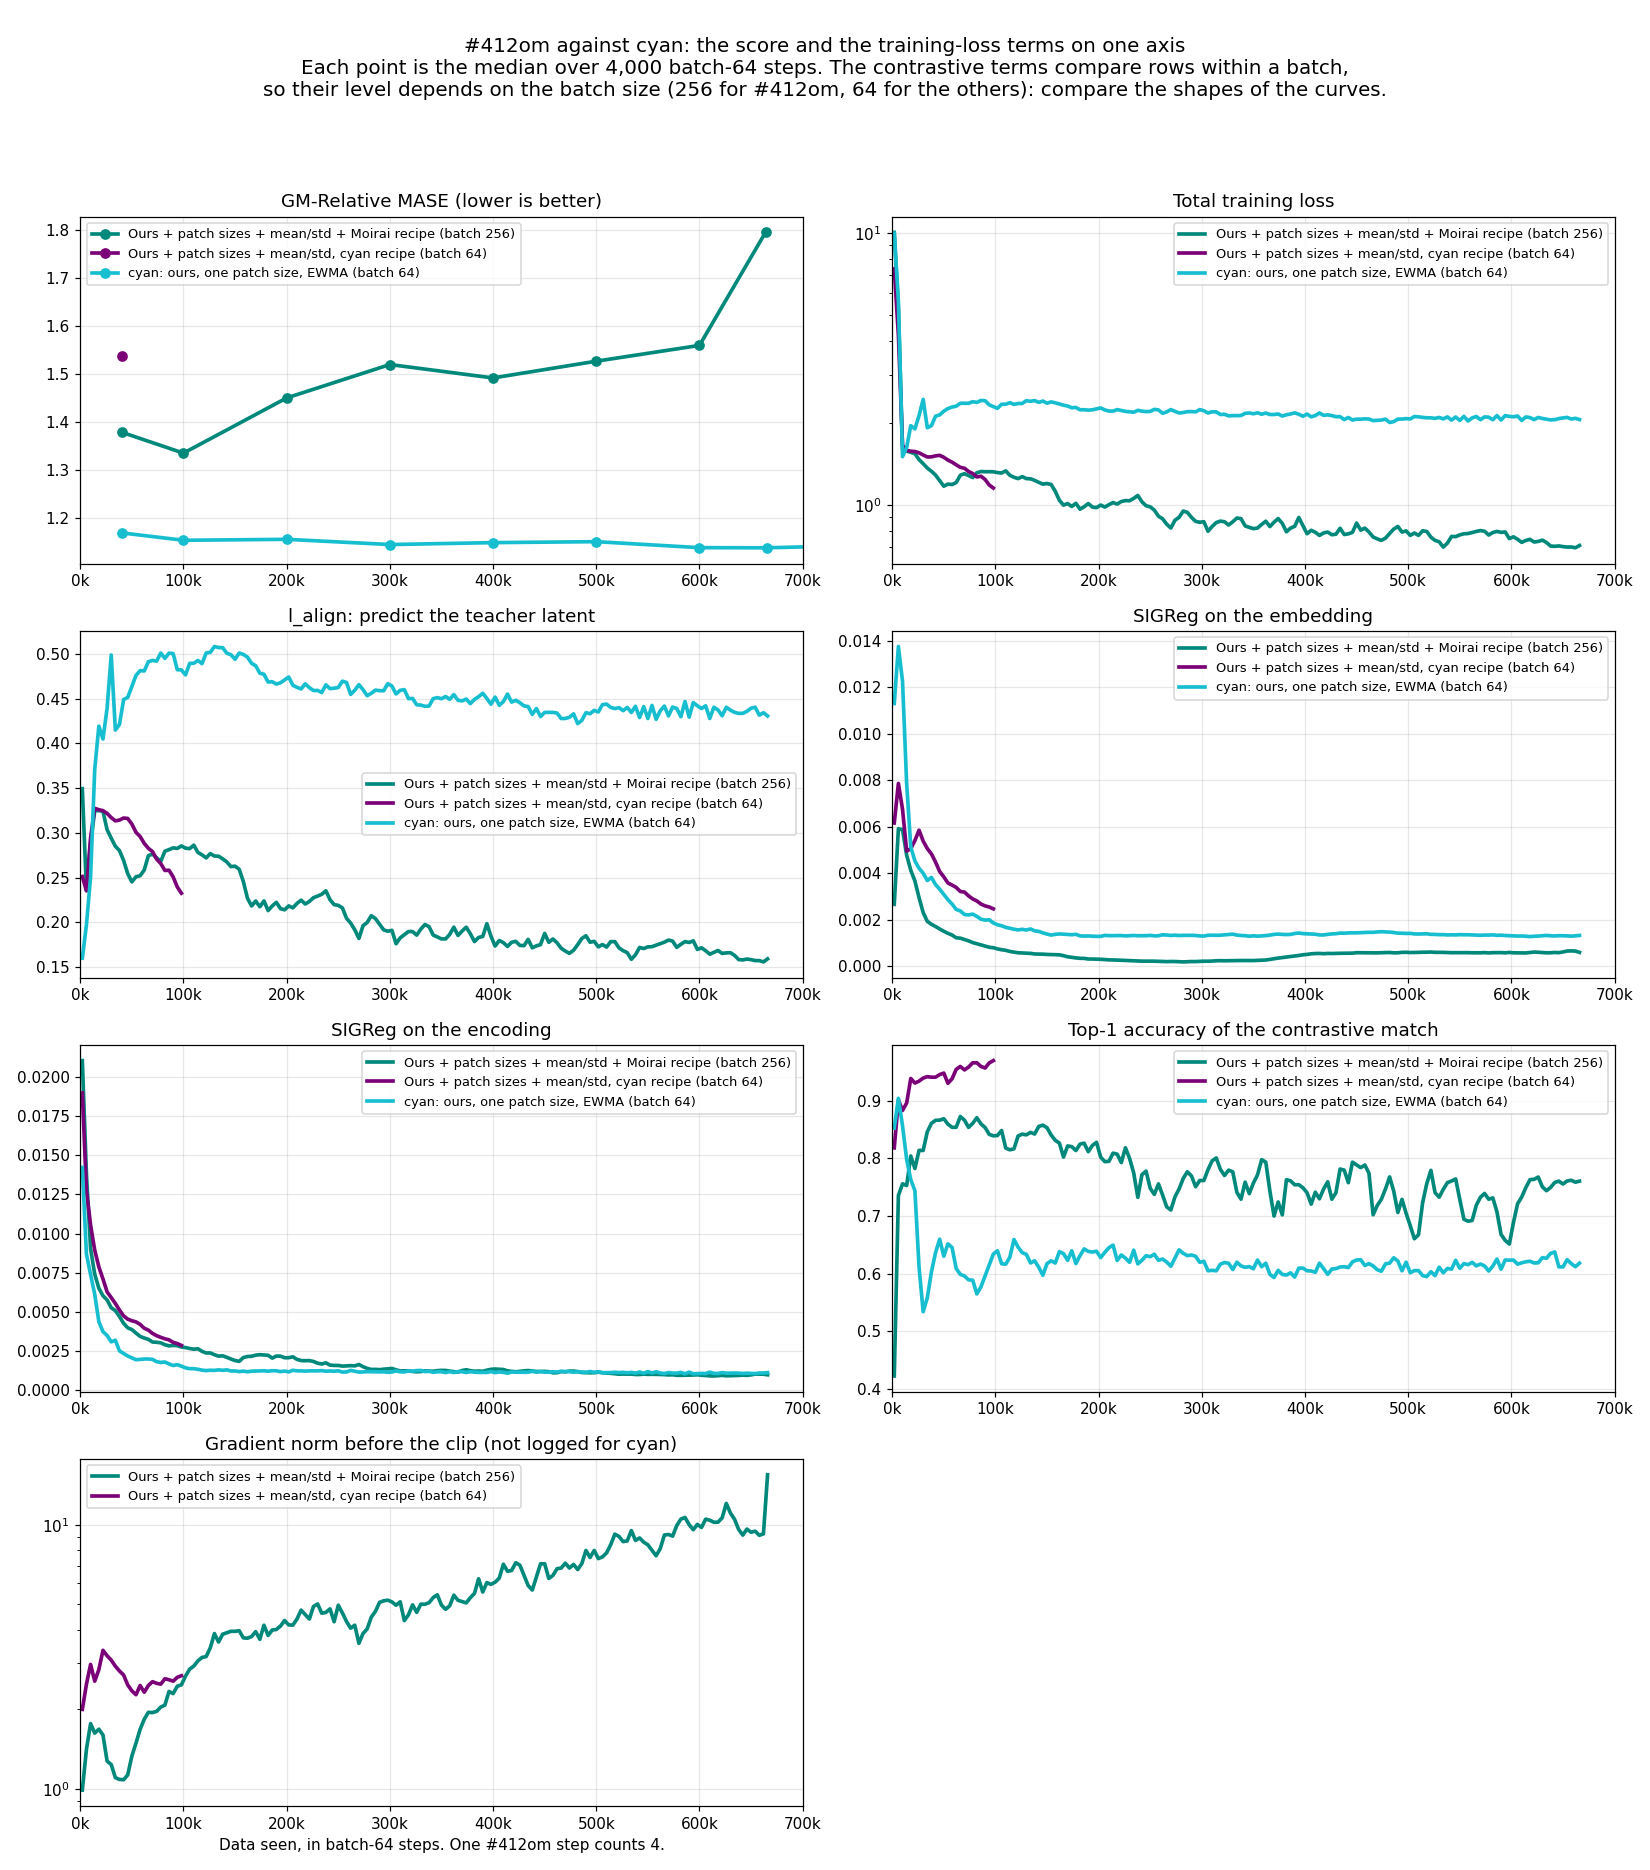
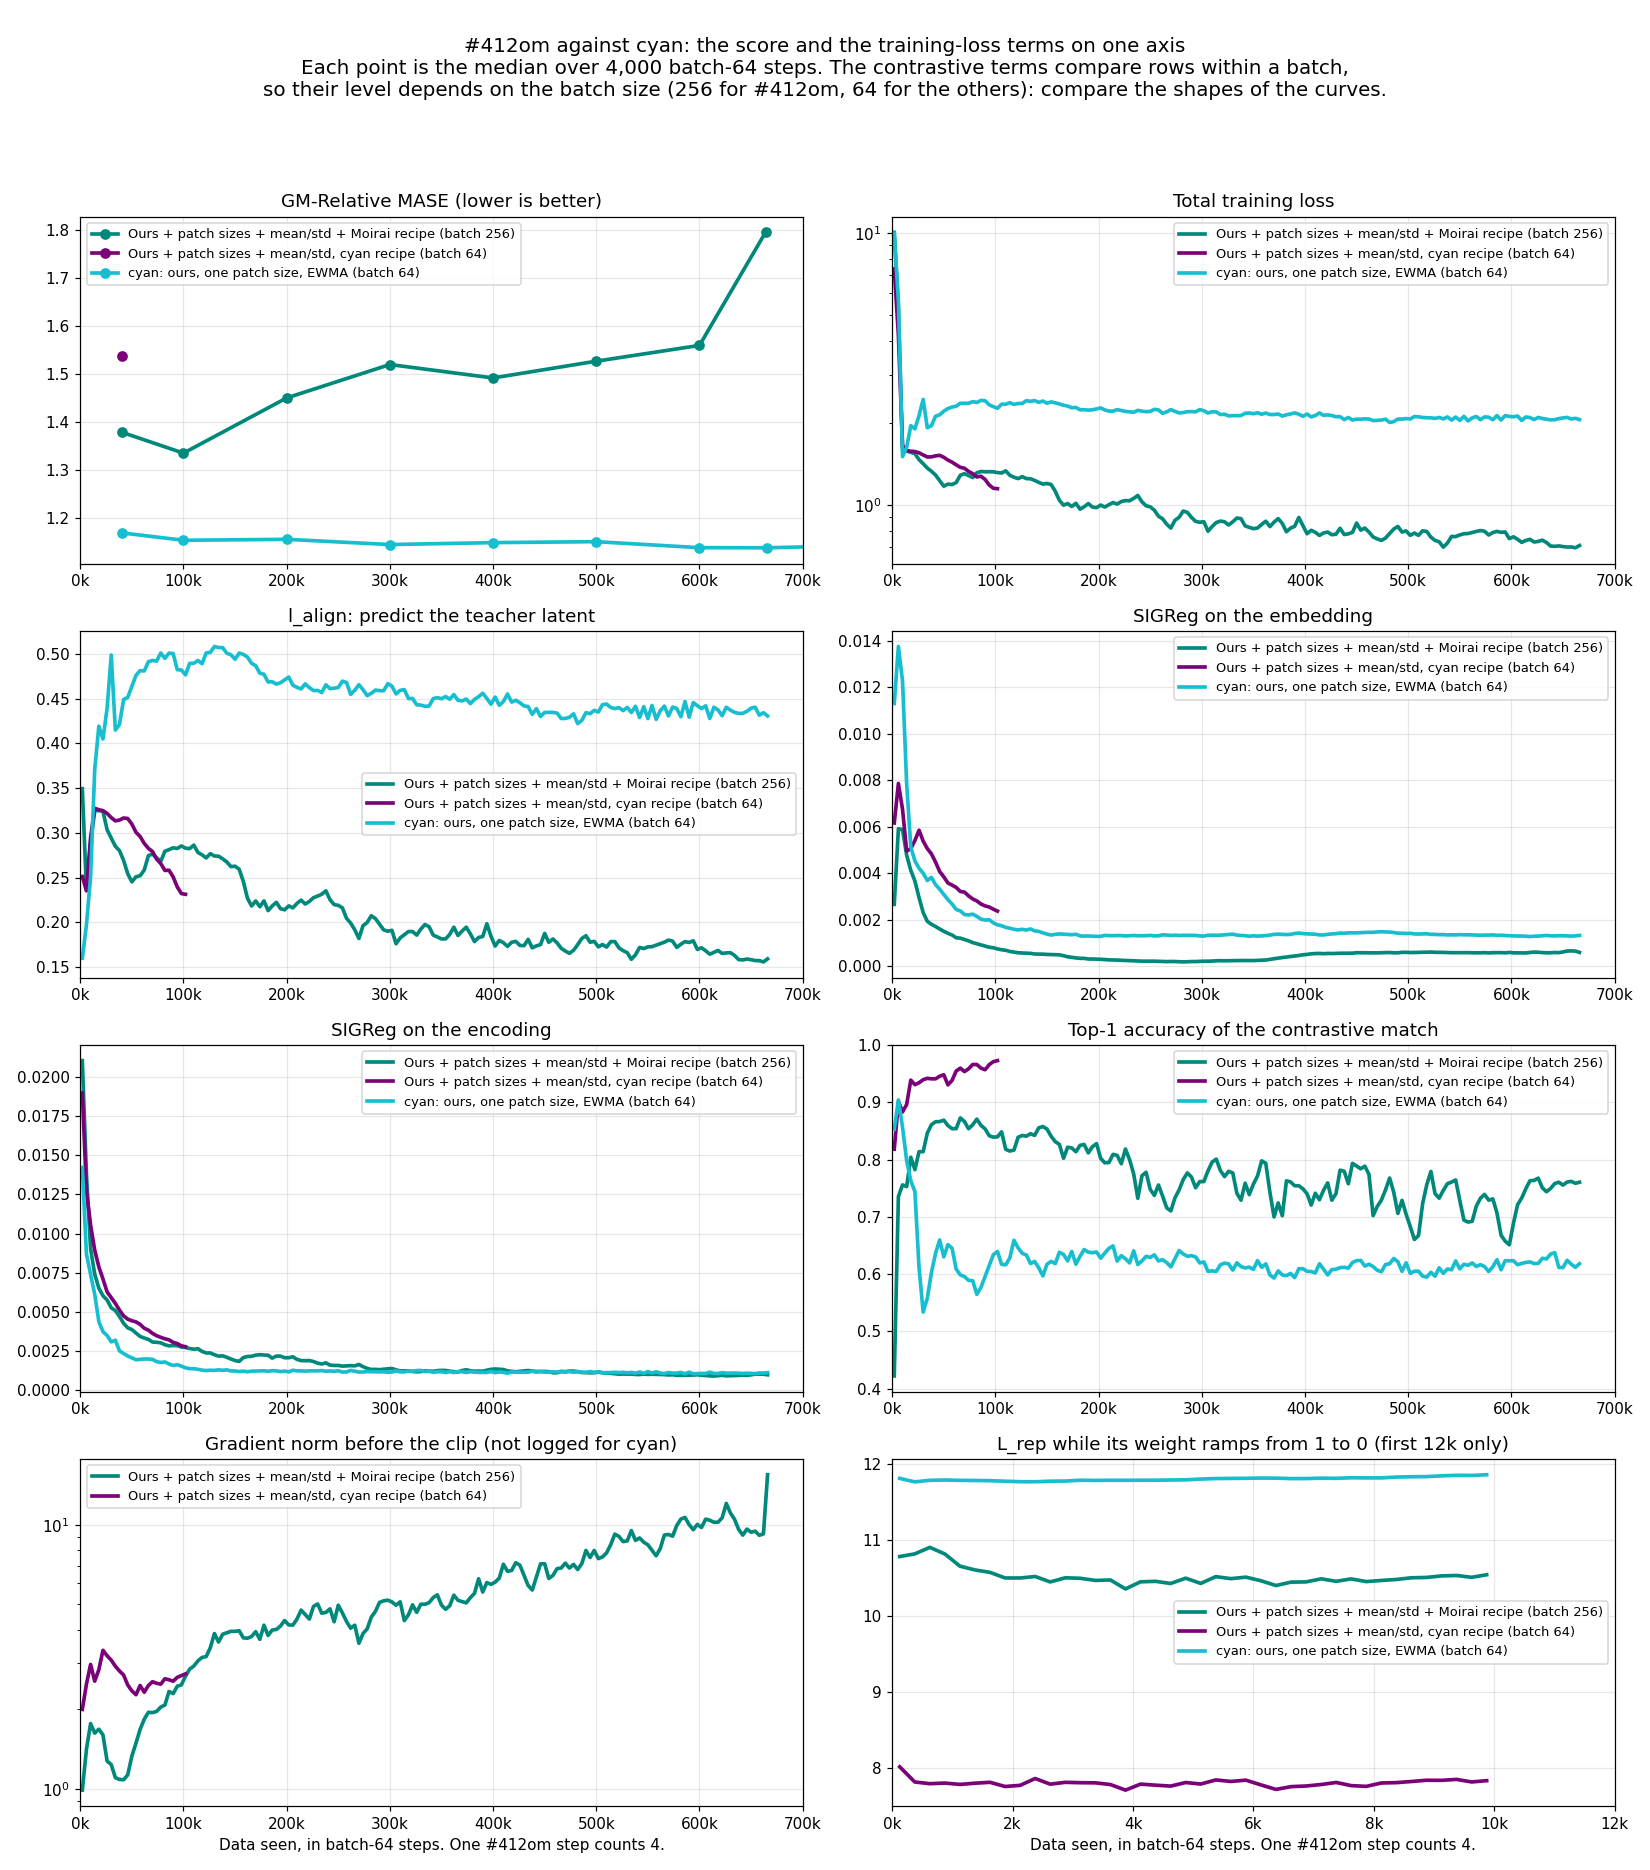
exp(#412): the loss-terms figure shows L_rep during its ramp
L_rep exists only while its weight ramps from 1 to 0, so its panel
shows the first 12,000 batch-64 steps, with a median every 250 steps.

diff --git a/reports/2026-09-06_moirai_small_size/scripts/plot_loss_terms_412.py b/reports/2026-09-06_moirai_small_size/scripts/plot_loss_terms_412.py
@@ -27,6 +27,10 @@ OUT = STUDY / "plots" / "loss_terms_412om_vs_cyan.png"
 MIRROR = Path("/home/jupyter/checkpoints_backup/cf-412/vast_lr100x")
 CYAN = P + "_cos200k"
 BIN = 4000  # batch-64 steps of data seen per point
+# L_rep exists only while its weight ramps from 1 to 0 (#412om: 2,500 steps,
+# 10,000 batch-64 steps of data; the others: 10,000 steps), so its panel
+# shows the first 12,000 batch-64 steps with finer bins.
+REP_BIN, REP_END = 250, 12000
 # run: (CSV files, oldest first so a resumed leg overwrites its failed try;
 # batch-64 steps per training step)
 SOURCES = {
@@ -46,7 +50,8 @@ PANEL = {"gm": "GM-Relative MASE (lower is better)",
          "sigreg_e": "SIGReg on the embedding",
          "sigreg_h": "SIGReg on the encoding",
          "top1": "Top-1 accuracy of the contrastive match",
-         "grad_norm": "Gradient norm before the clip (not logged for cyan)"}
+         "grad_norm": "Gradient norm before the clip (not logged for cyan)",
+         "l_rep": "L_rep while its weight ramps from 1 to 0 (first 12k only)"}
 
 
 def read_steps(folders, name):
@@ -81,9 +86,13 @@ def collect():
                     value = number(r.get(term))
                     if value is not None:
                         bins[term][seen // BIN].append(value)
+                value = number(r.get("l_rep"))
+                if value is not None and seen <= REP_END:
+                    bins["l_rep"][seen // REP_BIN].append(value)
             for term, by_bin in bins.items():
+                width = REP_BIN if term == "l_rep" else BIN
                 for b, values in sorted(by_bin.items()):
-                    out.write(f"{run}\t{term}\t{(b + 0.5) * BIN:.0f}\t{statistics.median(values):.6g}\n")
+                    out.write(f"{run}\t{term}\t{(b + 0.5) * width:.0f}\t{statistics.median(values):.6g}\n")
     print(f"wrote {TSV}")
 
 
@@ -105,8 +114,8 @@ def load():
 
 def plot():
     curves = load()
-    fig, axes = plt.subplots(4, 2, figsize=(15, 17), sharex=True)
-    for ax, term in zip(axes.flat, ["gm"] + TERMS):
+    fig, axes = plt.subplots(4, 2, figsize=(15, 17))
+    for ax, term in zip(axes.flat, ["gm"] + TERMS + ["l_rep"]):
         for run in SOURCES:
             xs, ys = curves.get((run, term), ([], []))
             if xs:
@@ -119,13 +128,11 @@ def plot():
         ax.legend(fontsize=8.5, loc="best")
         if term in ("loss", "grad_norm"):
             ax.set_yscale("log")
-    axes.flat[-1].axis("off")
-    ticks = range(0, 700001, 100000)
-    for ax in axes.flat:
-        ax.set_xlim(0, 700000)
+    for ax, end, step in [(a, 700000, 100000) for a in axes.flat[:-1]] + [(axes.flat[-1], REP_END, 2000)]:
+        ticks = range(0, end + 1, step)
+        ax.set_xlim(0, end)
         ax.set_xticks(ticks)
         ax.set_xticklabels([f"{t // 1000}k" for t in ticks])
-        ax.tick_params(labelbottom=True)
     for ax in axes[-1]:
         ax.set_xlabel("Data seen, in batch-64 steps. One #412om step counts 4.")
     fig.suptitle("#412om against cyan: the score and the training-loss terms on one axis\n"
